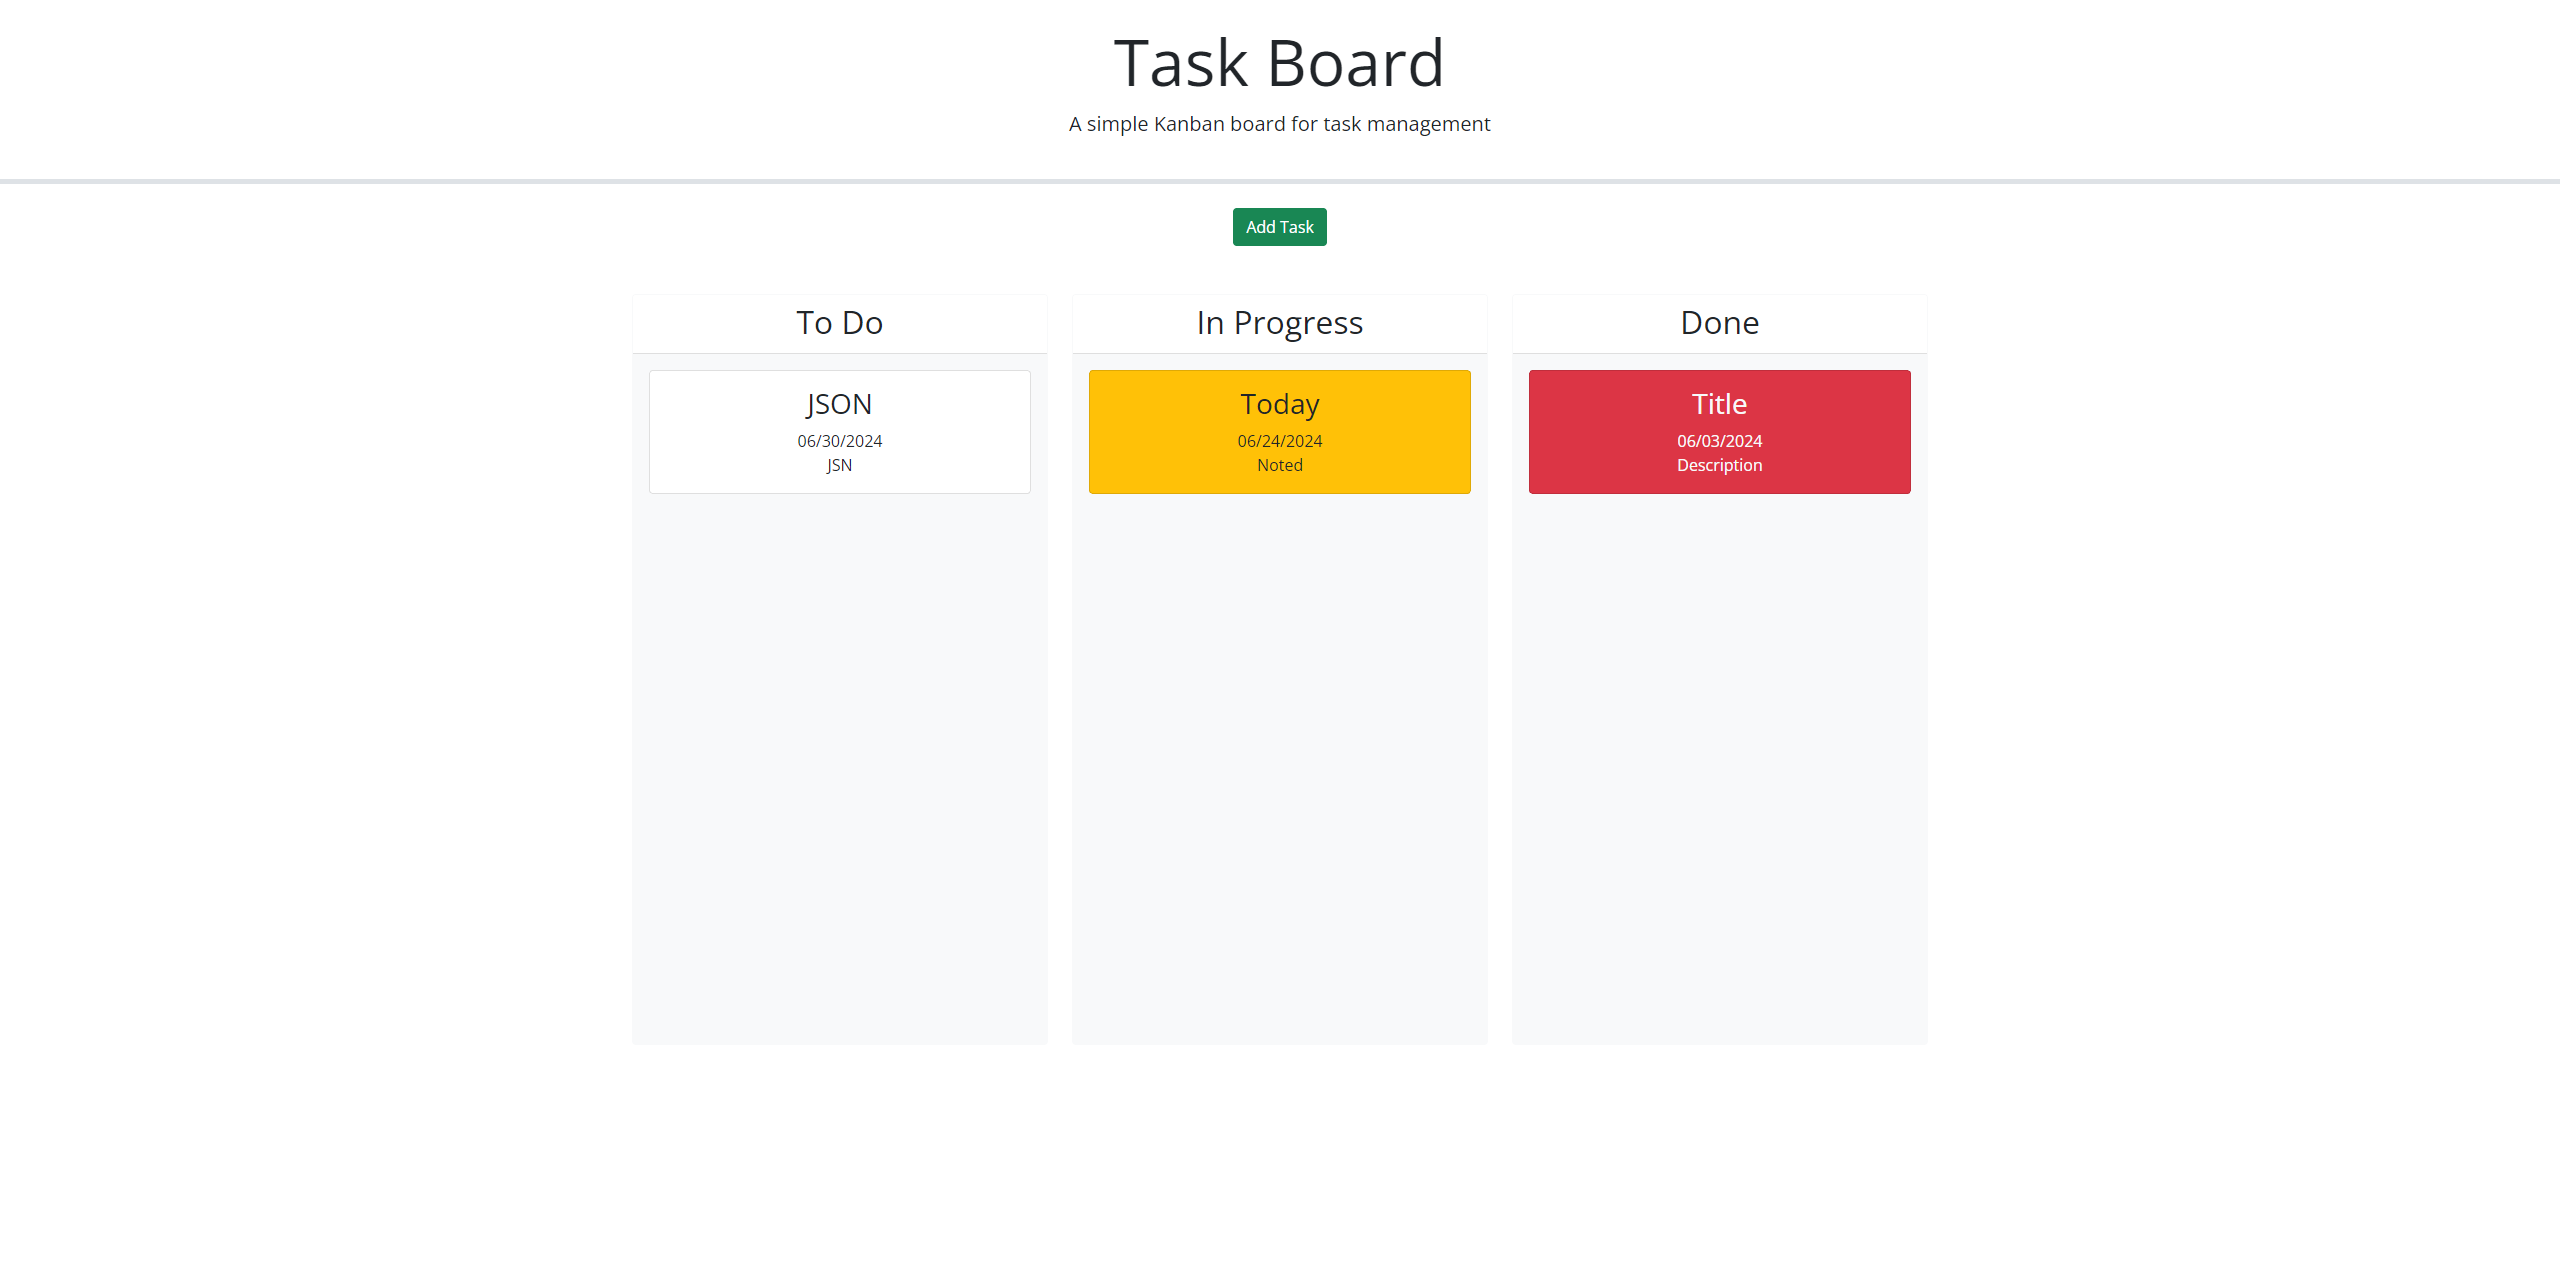
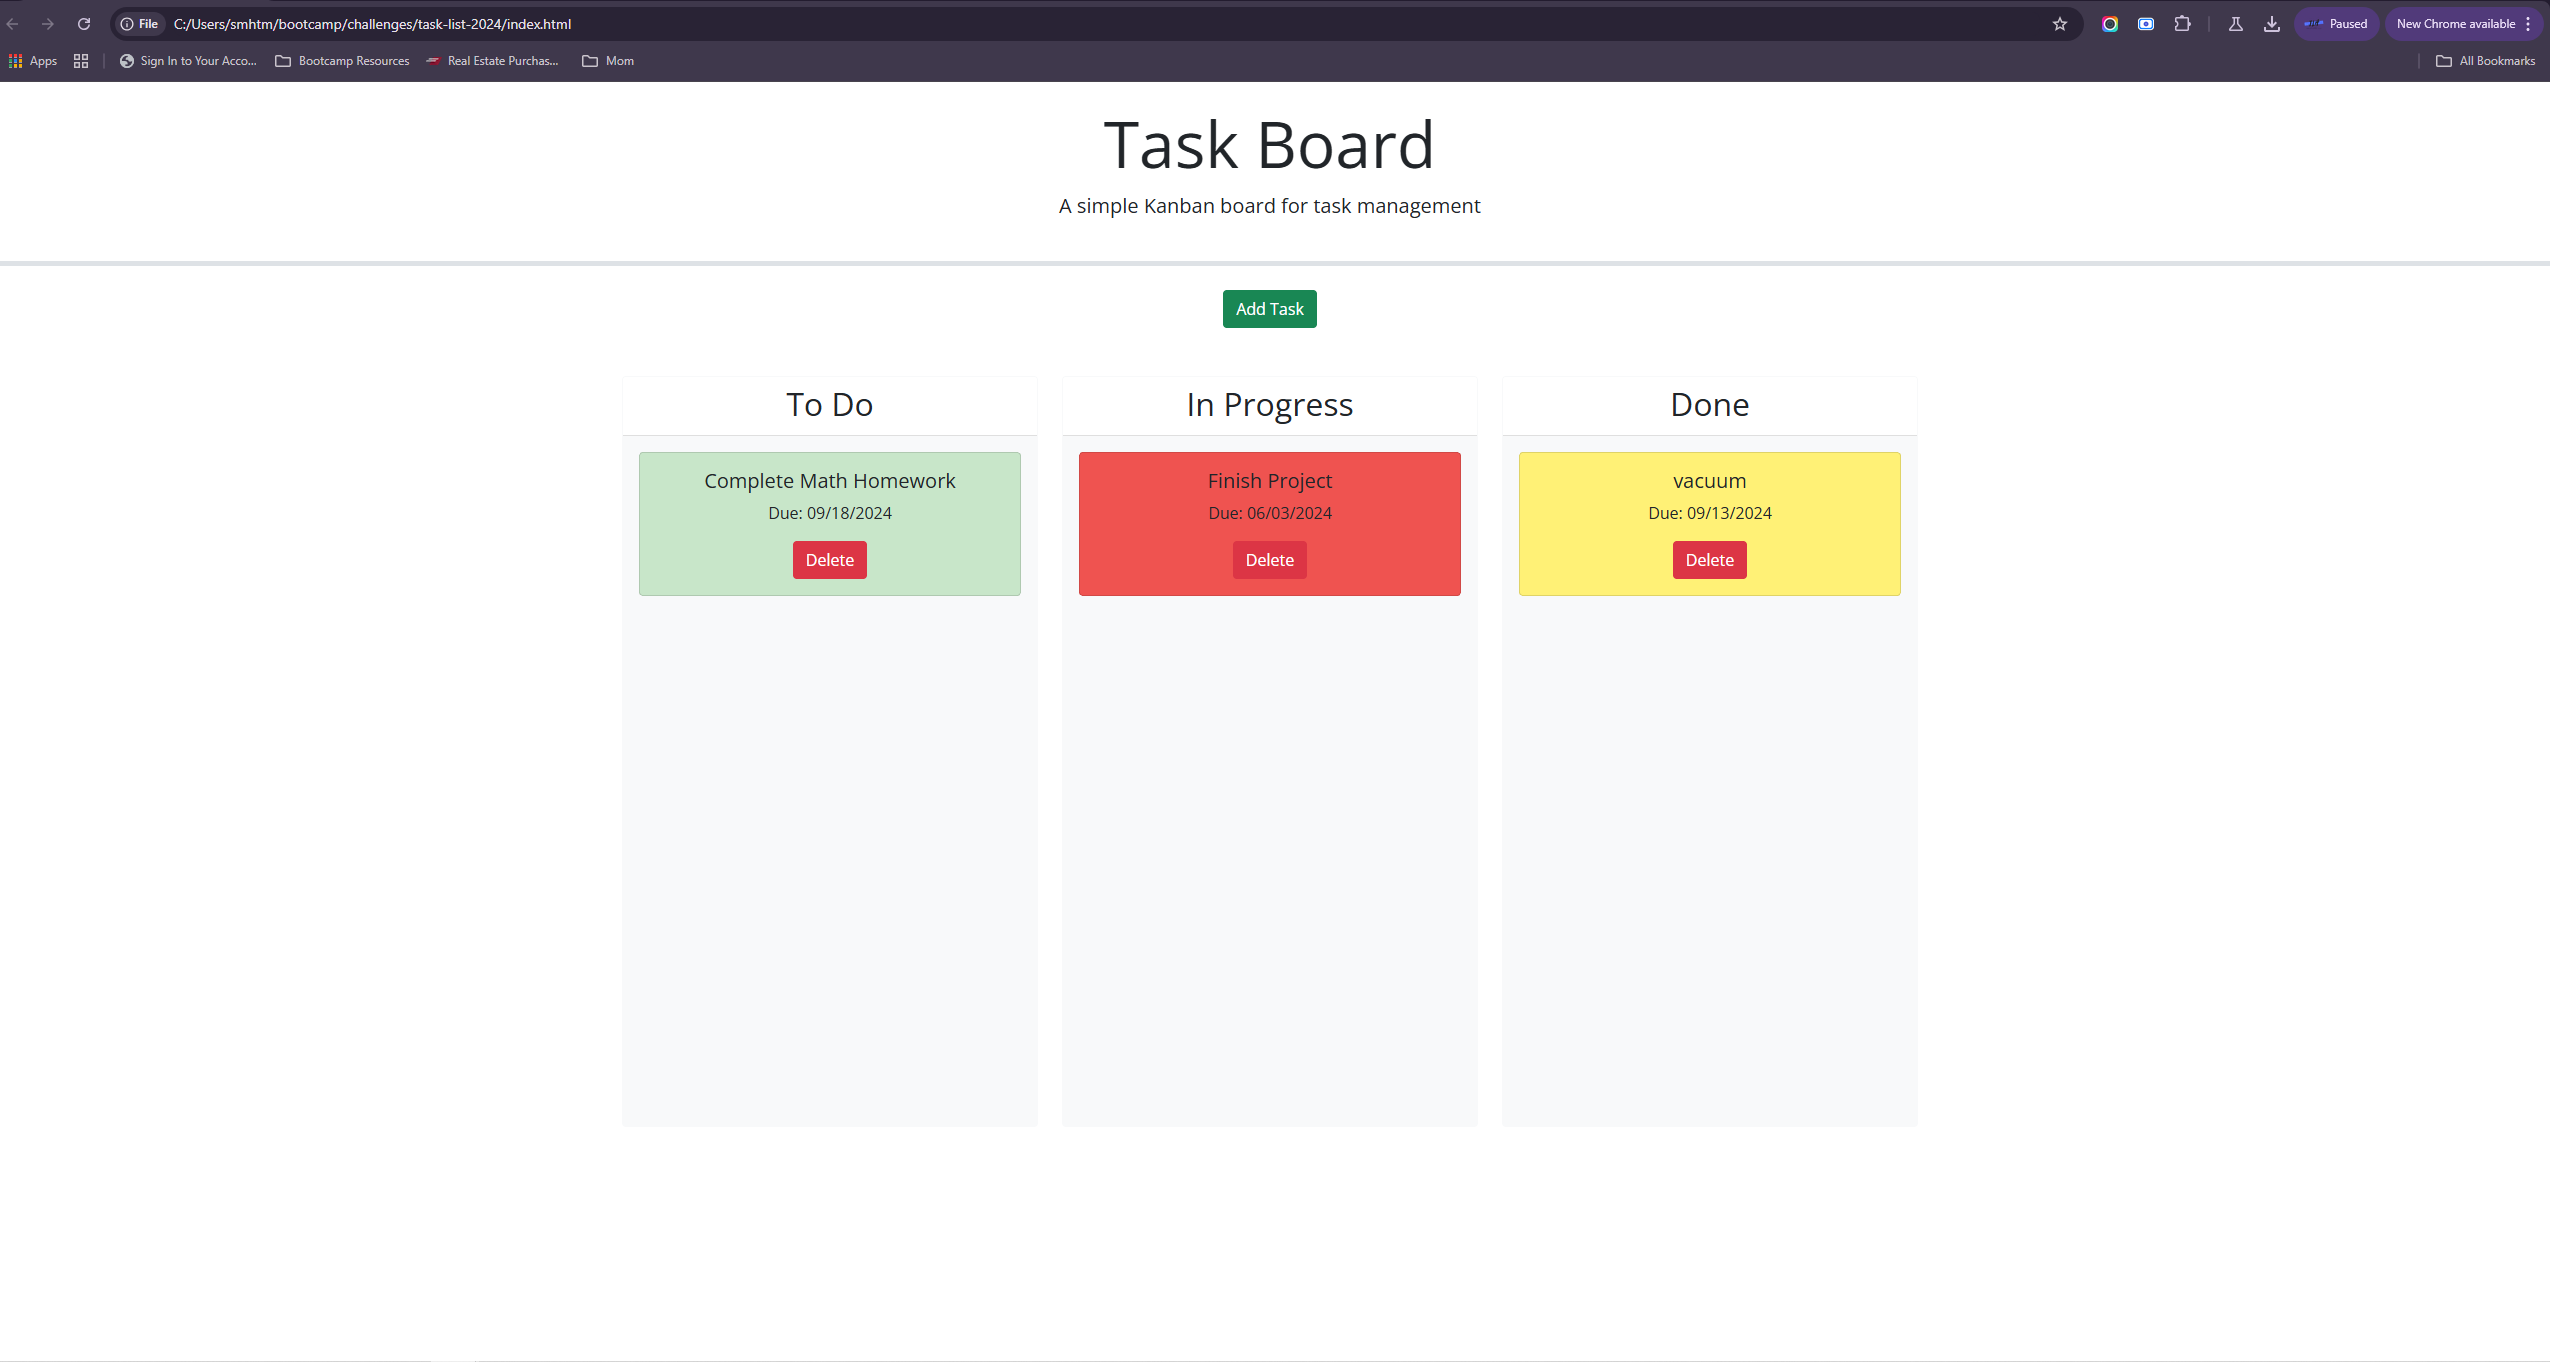
made necessary corrections for functionality

Changed region(s): [[0.0, 0.0, 1.0, 0.4574]]

diff --git a/assets/js/script.js b/assets/js/script.js
@@ -1,127 +1,106 @@
-// Retrieve tasks and nextId from localStorage
-let taskList = JSON.parse(localStorage.getItem("tasks")) ?? [];
-let nextId = JSON.parse(localStorage.getItem("nextId")) ?? 0;
+let taskList = JSON.parse(localStorage.getItem("tasks")) || [];
+let nextId = JSON.parse(localStorage.getItem("nextId")) || 1;
 
-// TODO: create a function to generate a unique task id
 function generateTaskId() {
-  // if nextId does not exist in localStorage, set it to 1
-  
-  // otherwise, increment it by 1
-
-  // save nextId to localStorage
-  localStorage.setItem('nextId', ++nextId);
+  return nextId++;
 }
 
-// TODO: create a function to create a task card
 function createTaskCard(task) {
-  // create card elements
-  const taskCardEl = $('<div class="task card mb-3 p-3">');
-  const titleEl = $('<h3>').text(task.title);
-  const dueDateEl = $('<div>').text(task.dueDate);
-  const descriptionEl = $('<div>').text(task.description);
+  const dueDate = dayjs(task.dueDate);
+  const today = dayjs();
+  let cardClass = '';
 
-  const today = dayjs(dayjs().format('MM/DD/YYYY'), 'MM/DD/YYYY');
-  const isDue = dayjs(task.dueDate, 'MM/DD/YYYY');
-
-  taskCardEl.attr('data-id', task.id);
-
-  // set card background color based on due date
-  if (today.isAfter(isDue)) taskCardEl.addClass('bg-danger').addClass('text-light');
-  if (today.isSame(isDue)) taskCardEl.addClass('bg-warning');
-
-  // append card elements
-  $('#todo-cards').append(taskCardEl);
-  taskCardEl.append(titleEl, dueDateEl, descriptionEl);
-}
-
-// TODO: create a function to render the task list and make cards draggable
-function renderTaskList() {
-  // if taskList is null, set it to an empty array
-
-  // empty existing task cards
-  $('.lane .card-body > *').empty();
-  // loop through tasks and create task cards for each status
-  for (let task of taskList) {
-    createTaskCard(task);
-  } 
-
-  // make task cards draggable
-  $( function() {
-    $(".task.card").draggable({
-      revert: true,
-      zIndex: 1,
-    });
-  } );
-}
-
-// TODO: create a function to handle adding a new task
-function handleAddTask(event) {
-  event.preventDefault();
-
-  const data = Object.fromEntries(new FormData(event.target));
-  
-  console.log(data);
-
-  generateTaskId();
-  // create a new task object
-  const task = {
-    title: $('#title').val().trim(),
-    dueDate: $('#dueDate').val().trim(),
-    description: $('#description').val().trim(),
-    id: nextId,
-    status: 'to-do',
-  };
-
-  // add the new task to the taskList save and render
-
-  taskList.push(task);
-
-  localStorage.setItem('tasks', JSON.stringify(taskList));
-
-  renderTaskList();
-}
-
-// TODO: create a function to handle deleting a task
-function handleDeleteTask(event) {
-  // get the task id from the button clicked
-
-  // remove the task from the taskList, save and render
-}
-
-// TODO: create a function to handle dropping a task into a new status lane
-function handleDrop(event, ui) {
-  console.log(event);
-  console.log(ui);
-  // get the task id and new status from the event
-  $(this).find('.card-body > *').append($(ui.draggable));
-  // update the task status of the dragged card
-  const id = $(ui.draggable).attr('data-id');
-
-  for (let task of taskList) {
-    if (id == task.id) {
-      console.log('FOUND', task);
-      task.status = event.target.id;
-    }
+  if (dueDate.isAfter(today)) {
+    cardClass = 'task-card-green';
+  } else if (dueDate.isSame(today, 'day')) {
+    cardClass = 'task-card-yellow';
+  } else {
+    cardClass = 'task-card-red';
   }
 
-  // save and render
-  localStorage.setItem('tasks', JSON.stringify(taskList));
+  return `
+  <div class="task-card card mb-3 ${cardClass}" id="task-${task.id}">
+    <div class="card-body">
+      <h5 class="card-title">${task.title}</h5>
+      <p class="card-text">Due: ${dueDate.format('MM/DD/YYYY')}</p>
+      <button class="btn btn-danger" onclick="handleDeleteTask(${task.id})">Delete</button>
+    </div>
+  </div>
+  `;
 }
 
-// TODO: when the page loads, render the task list, add event listeners, make lanes droppable, and make the due date field a date picker
-$(document).ready(function () {
-  // render the task list
-  renderTaskList();
-  // add event listener
-  $("#addForm").on("submit", handleAddTask);
-  // make lanes droppable
-  $( ".lane" ).droppable({
-    drop: handleDrop,
-    accept: ".task.card",
-    activeClass: "ui-state-highlight",
+function renderTaskList() {
+  $("#todo-cards").empty();
+  $('#in-progress-cards').empty();
+  $("#done-cards").empty();
+
+  taskList.forEach(task => {
+    const taskCard = createTaskCard(task);
+    if (task.status === 'To Do') {
+      $("#todo-cards").append(taskCard);
+    } else if (task.status === 'In Progress') {
+      $("#in-progress-cards").append(taskCard);
+    } else if (task.status === 'Done') {
+      $("#done-cards").append(taskCard);
+    }
   });
-  // make due date field a date picker
-  $( function() {
-    $( "#dueDate" ).datepicker();
-  } );
+
+  $(".task-card").draggable({
+    revert: "invalid",
+    start: function(event, ui) {
+      $(this).addClass("dragging");
+    },
+    stop: function(event, ui) {
+      $(this).removeClass("dragging");
+    }
+  });
+
+  $(".lane").droppable({
+    accept: ".task-card",
+    drop: function(event, ui) {
+      const taskId = ui.draggable.attr("id").split("-")[1];
+      const newStatus = $(this).find(".card-header h2").text();
+      handleDrop(taskId, newStatus);
+    }
+  });
+}
+
+function handleAddTask(event) {
+  event.preventDefault();
+  const title = $("#title").val();
+  const dueDate = $("#dueDate").val();
+
+  const task = {
+    id: generateTaskId(),
+    title: title,
+    dueDate: dueDate,
+    status: 'To Do'
+  };
+  taskList.push(task);
+  localStorage.setItem('tasks', JSON.stringify(taskList));
+  localStorage.setItem("nextId", nextId);
+  renderTaskList();
+  $("#formModal").modal('hide');
+}
+
+function handleDeleteTask(taskId) {
+  taskList = taskList.filter(task => task.id !== taskId);
+  localStorage.setItem("tasks", JSON.stringify(taskList));
+  renderTaskList();
+}
+
+function handleDrop(taskId, newStatus) {
+  taskList.forEach(task => {
+    if (task.id == taskId) {
+      task.status = newStatus;
+    }
+  });
+  localStorage.setItem('tasks', JSON.stringify(taskList));
+  renderTaskList();
+}
+
+$(document).ready(function () {
+  renderTaskList();
+  $("#addForm").on("submit", handleAddTask);
+  $("#dueDate").datepicker();
 });

diff --git a/index.html b/index.html
@@ -10,8 +10,8 @@
     integrity="sha384-50oBUHEmvpQ+1lW4y57PTFmhCaXp0ML5d60M1M7uH2+nqUivzIebhndOJK28anvf" crossorigin="anonymous" />
   <link href="https://fonts.googleapis.com/css?family=Open+Sans&display=swap" rel="stylesheet" />
   <link rel="stylesheet" href="https://code.jquery.com/ui/1.12.1/themes/base/jquery-ui.css" />
-
   <link rel="stylesheet" href="./assets/css/style.css" />
+  <script defer src="./assets/js/script.js"></script>
   <title>Task Board</title>
 </head>
 
@@ -24,7 +24,6 @@
     <div class="text-center mb-5">
       <button class="btn btn-success" data-bs-toggle="modal" data-bs-target="#formModal">Add Task</button>
     </div>
-    <!-- Todo: Create a modal with a form to add tasks -->
     <div class="row swim-lanes text-center justify-content-between">
       <div class="col-12 col-lg-4 d-flex">
         <div id="to-do" class="card border-light mb-3 lane flex-grow-1">
@@ -32,7 +31,7 @@
             <h2 class="card-title mb-1">To Do</h2>
           </div>
           <div class="card-body bg-light">
-            <div id="todo-cards">Hello</div>
+            <div id="todo-cards"></div>
           </div>
         </div>
       </div>
@@ -42,19 +41,19 @@
             <h2 class="card-title mb-1">In Progress</h2>
           </div>
           <div class="card-body bg-light">
-            <div id="in-progress-cards">Fun</div>
+            <div id="in-progress-cards"></div>
           </div>
         </div>
+      </div>
+      <div class="col-12 col-lg-4 d-flex">
+        <div id="done" class="card border-light mb-3 lane flex-grow-1">
+          <div class="card-header bg-white">
+            <h2 class="card-title mb-1">Done</h2>
+          </div>
+          <div class="card-body bg-light">
+            <div id="done-cards"></div>
+          </div>
         </div>
-        <div class="col-12 col-lg-4 d-flex">
-          <div id="done" class="card border-light mb-3 lane flex-grow-1">
-            <div class="card-header bg-white">
-              <h2 class="card-title mb-1">Done</h2>
-            </div>
-            <div class="card-body bg-light">
-              <div id="done-cards">Hey</div>
-          </div>
-          </div>
       </div>
     </div>
   </div>
@@ -96,8 +95,6 @@
   <script src="https://code.jquery.com/ui/1.13.1/jquery-ui.min.js"></script>
   <script src="https://cdn.jsdelivr.net/npm/dayjs@1.11.3/dayjs.min.js"
     integrity="sha256-iu/zLUB+QgISXBLCW/mcDi/rnf4m4uEDO0wauy76x7U=" crossorigin="anonymous"></script>
-
-  <script src="./assets/js/script.js"></script>
 </body>
 
 </html>

diff --git a/assets/css/style.css b/assets/css/style.css
@@ -14,3 +14,15 @@ body {
 .task-card:hover {
   cursor: grab;
 }
+
+.task-card-green {
+  background-color: #c8e6c9; /* Light green */
+}
+
+.task-card-yellow {
+  background-color: #fff176; /* Light yellow */
+}
+
+.task-card-red {
+  background-color: #ef5350; /* Light red */
+}
